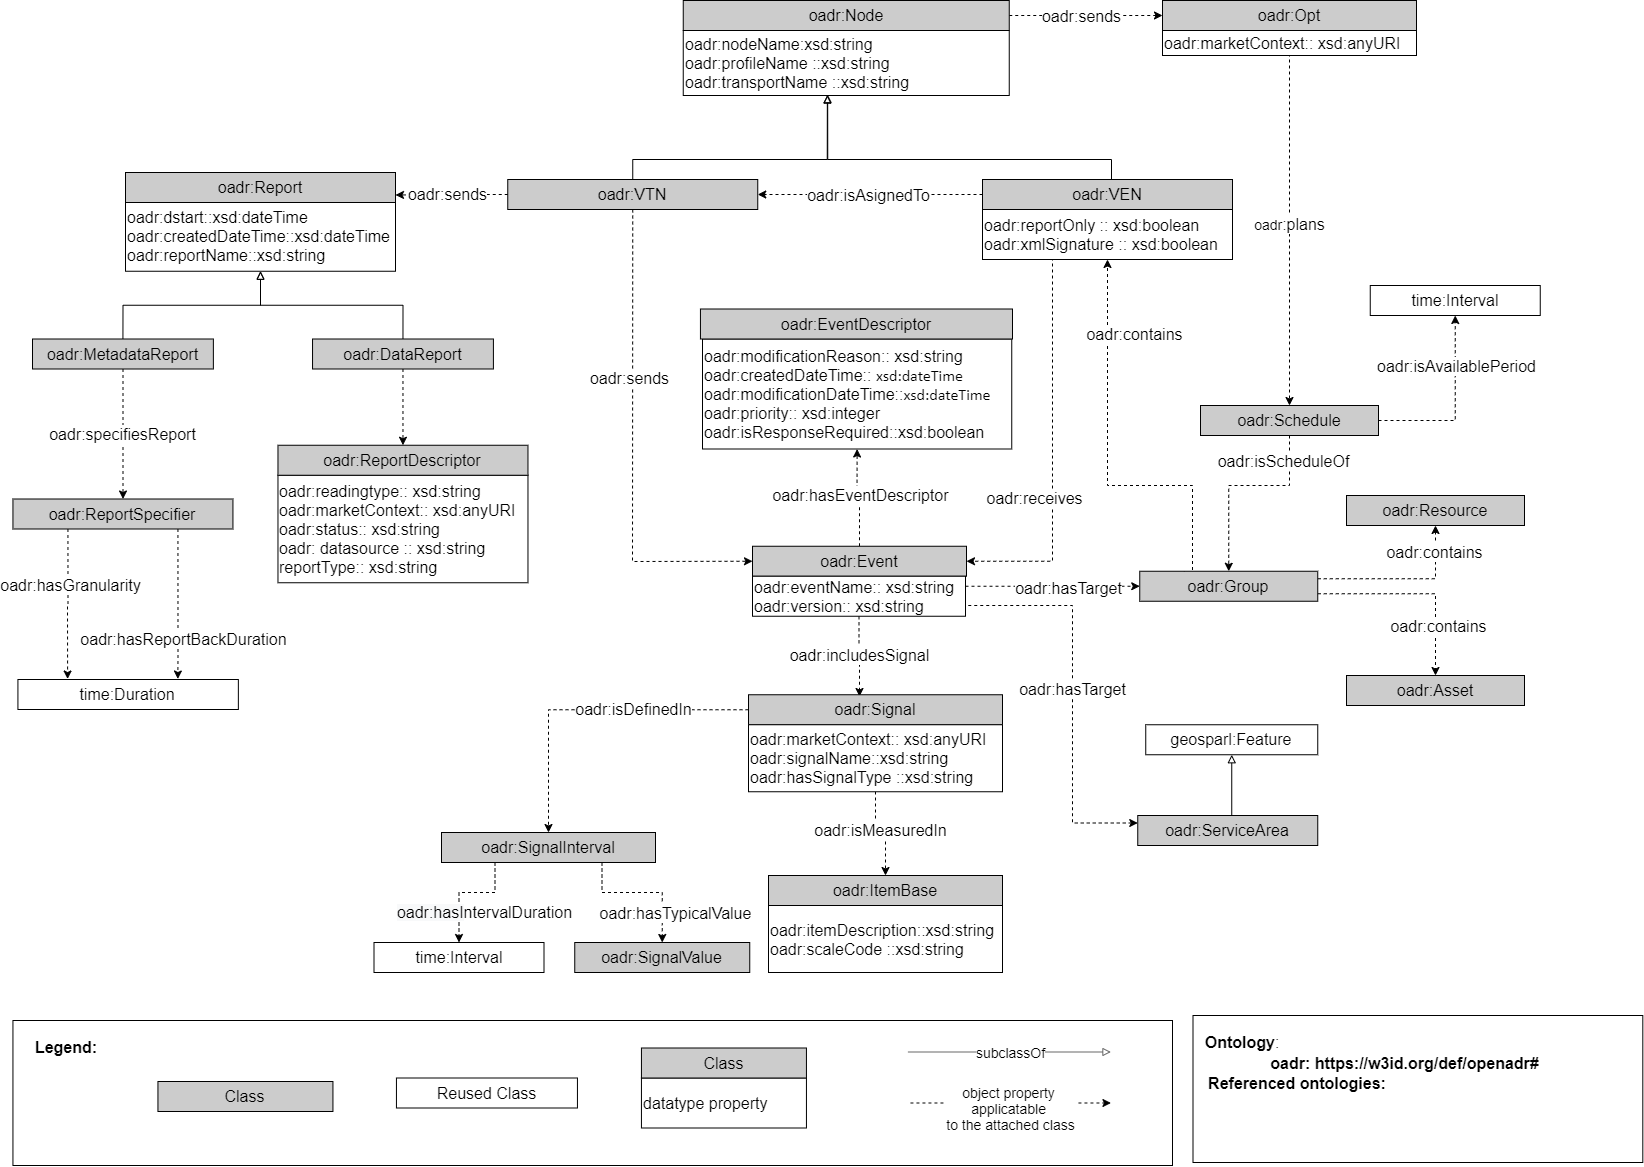
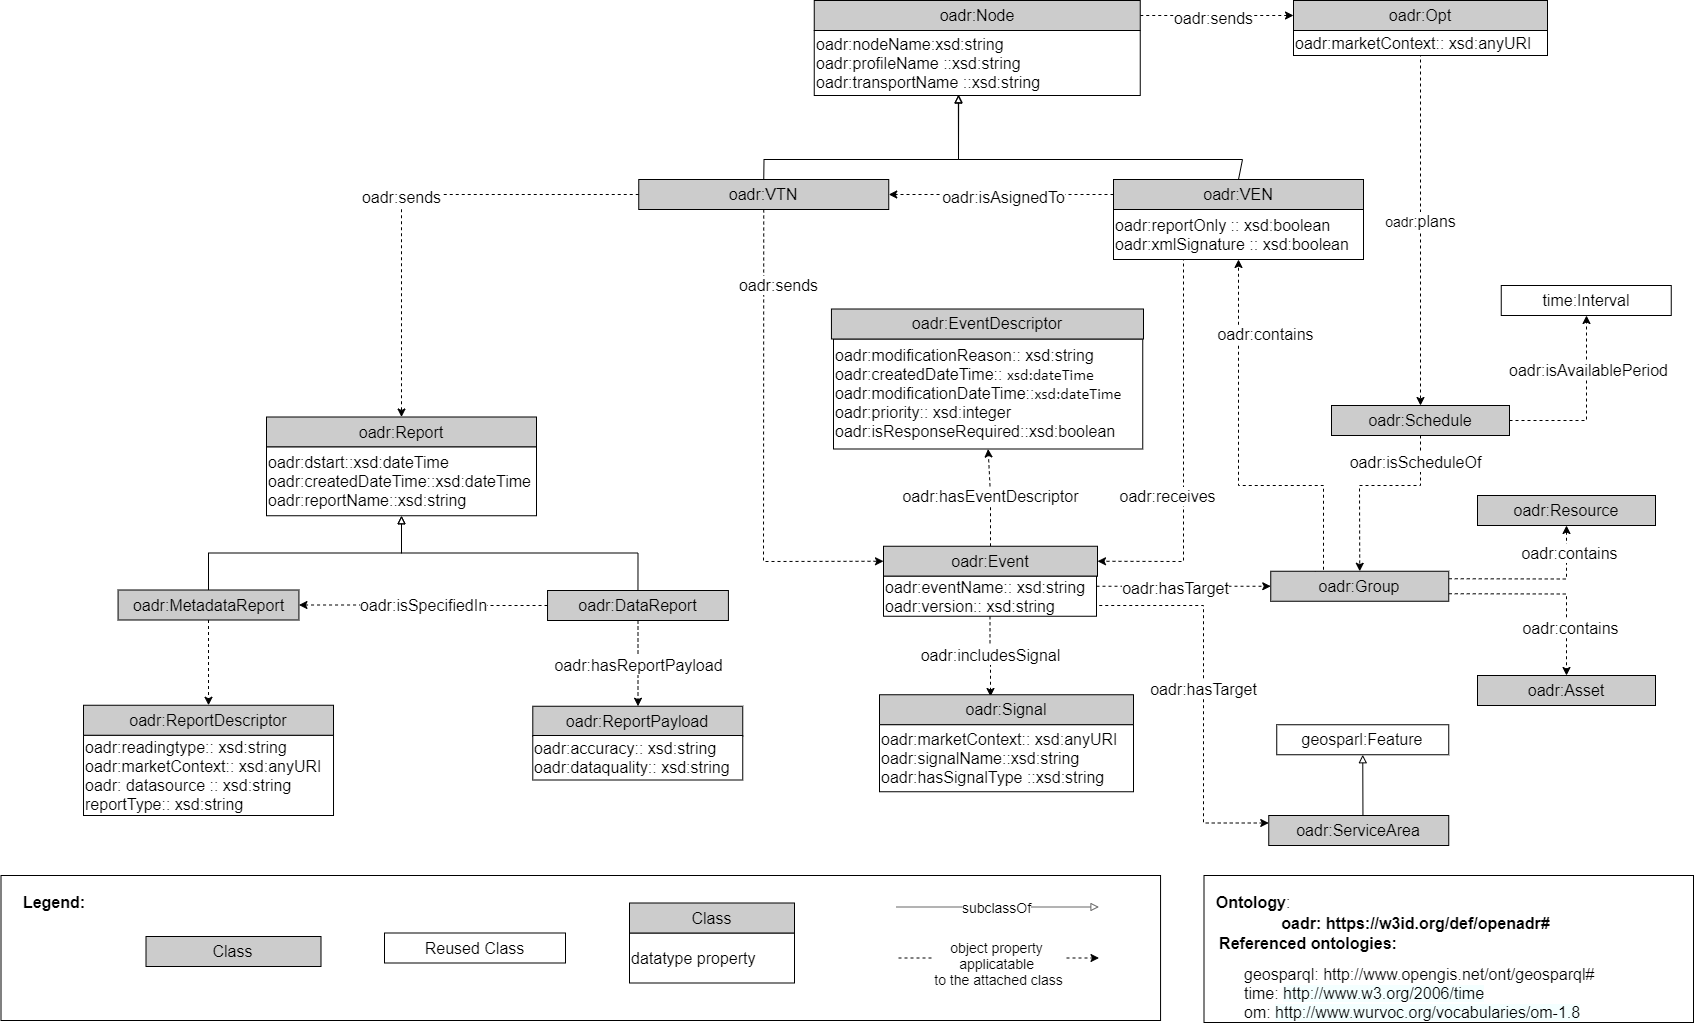
new version of OpenADR ontology supporting the status and data payloads

diff --git a/OnToology/ontology/openADRontology.owl/documentation/sections/description-en.html b/OnToology/ontology/openADRontology.owl/documentation/sections/description-en.html
@@ -6,5 +6,14 @@
 <center><img src="resources/img/openADR.png" alt="General overview of the top levels of the OpenADR ontology." width="70%">   <figcaption>Figure 1. - General overview of the top levels of the openADR ontology.</figcaption></center>
 
 
+<p>Reports are an important entity in the OpenADR standard, since they support the exchange of information between VEN and VTNs. Figure 2 provides an overview of the classes and properties related to the OpenADR reports. </p>
+
+<center><img src="resources/img/Report.png" alt="General overview of the classes and properties related to the Report." width="70%">   <figcaption>Figure 2. - General overview of the classes and properties related to the OpenADR Report</figcaption></center>
+
+<p>Figure 3 depicts the hierarchy of signals supported by the OpenADR standard, as well as the properties related to them. </p>
+
+
+<center><img src="resources/img/Signal.png" alt="General overview of the classes and properties related to the Signal" width="70%">   <figcaption>Figure 3. - General overview of the classes and properties related to the OpenADR Signal</figcaption></center>
+
 
 </html>
